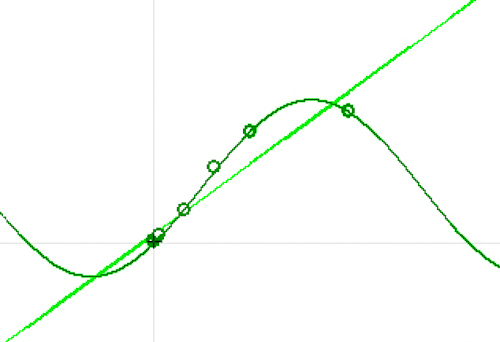
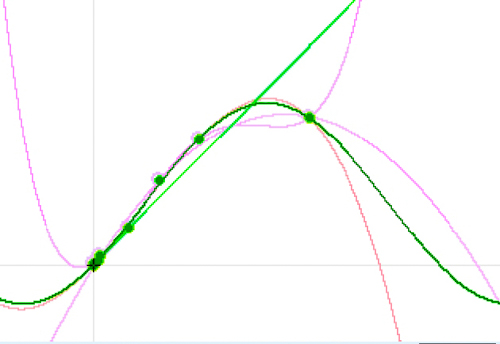
Add files via upload

diff --git a/velho_tab04.md b/velho_tab04.md
@@ -379,11 +379,10 @@ as well as a power regression function (4) with $r=0.996$, $det=99.14\\%$ and $\
 $a=0.95313$,  
 $b=0.99414$.
 
-Figure 3. 	Trigonometric (linear) regression, $y=PT$, $x=VL$.
+Figure 3. Regressions, $y=PT$, $x=VL$.
 ![figure.\label{reg3}](reg3.jpg)
 
-Figure 4. 	Power (linear) regression, $y=PT$, $x=VL$.
-![figure.\label{reg4}](reg4.jpg)
+
 
 Further regressions (1-6, 10) revealed only insufficient accordance; regressions 7, 8 and 9 showed overall good fits with $r^2\ge0.99$.
 
